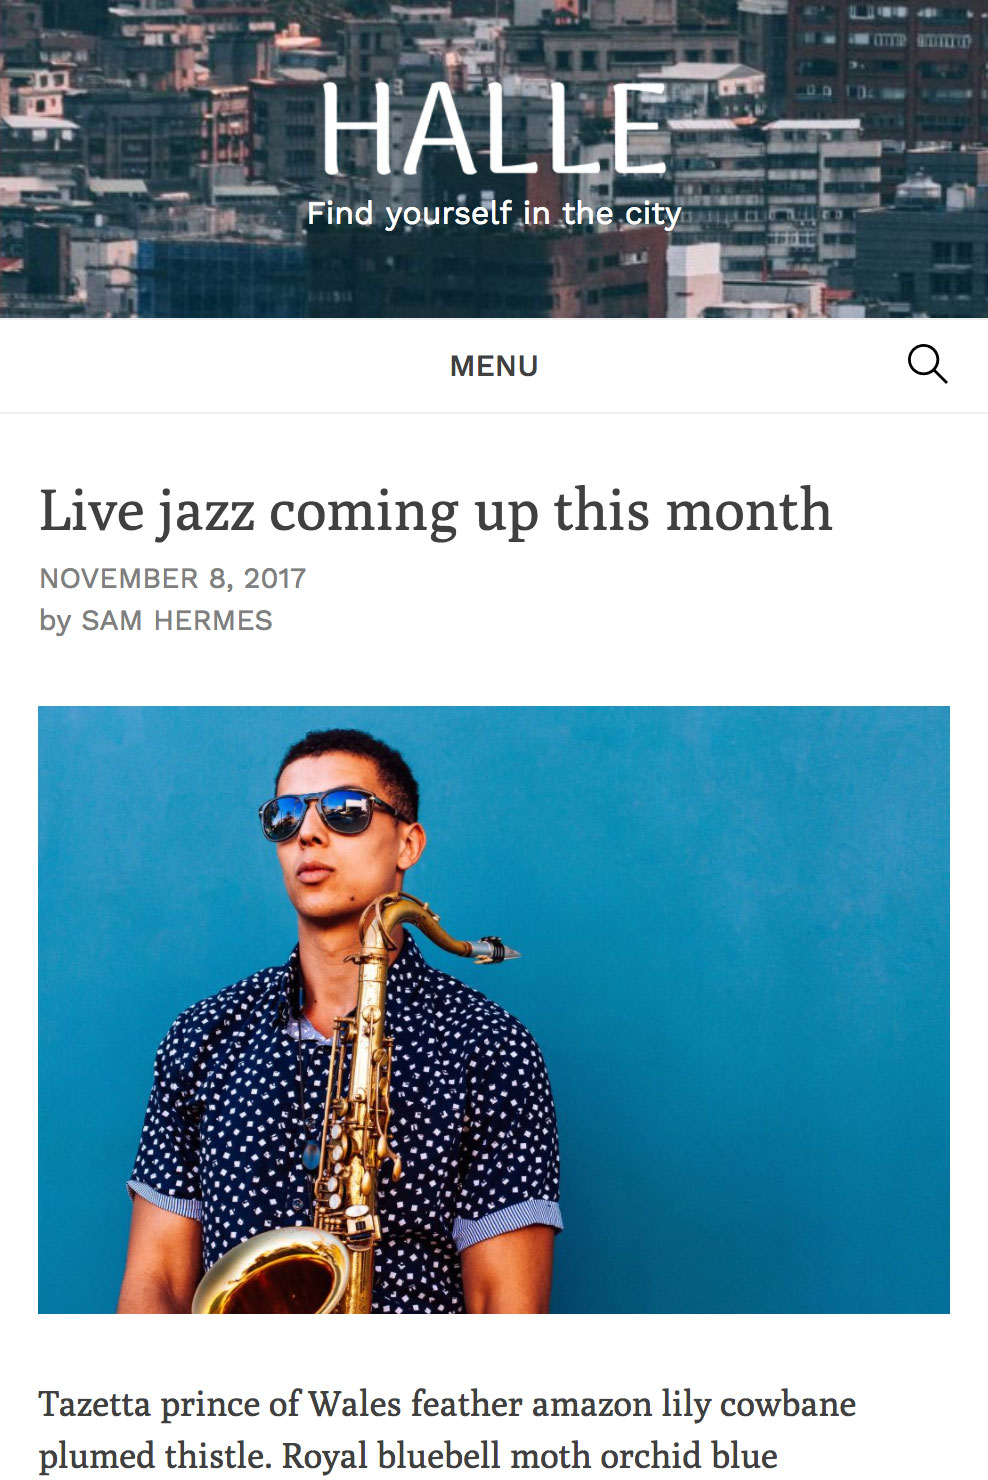
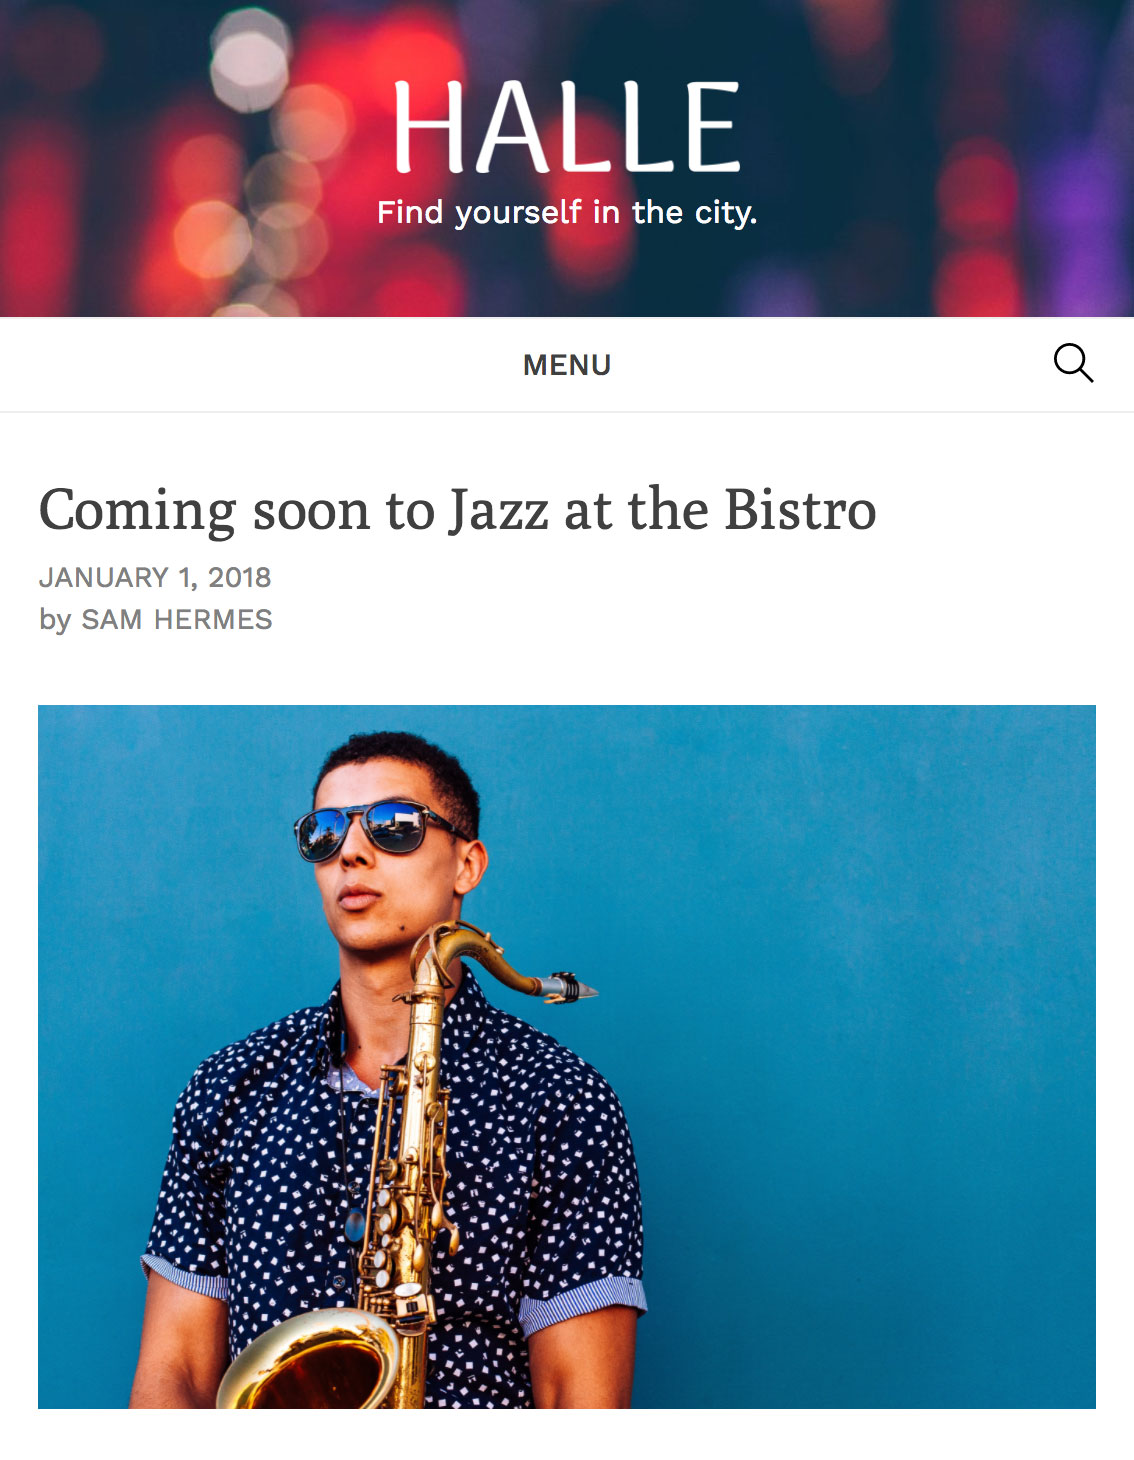
Update screenshot, add mobile styles

diff --git a/_sass/_halle.scss b/_sass/_halle.scss
@@ -7,7 +7,8 @@
 	box-sizing: border-box;
 	max-width: 75em;
 	margin: 0 auto;
-    padding: 2em;
+	width: 90%;
+	padding: 2em 0;
 
     p {
 		font-size: 1.2em;
@@ -15,39 +16,57 @@
 }
 
 .halle-intro {
-	@media screen and (min-width: 37.5em) {
+	@media screen and (min-width: 50em) {
 		display: flex;
+		justify-content: space-between;
 	}
 }
 
 .halle-intro-image {
-	@media screen and (min-width: 37.5em) {
-		width: 60%;
+	margin-bottom: 2em;
+
+	@media screen and (min-width: 50em) {
+		width: 50%;
+		text-align: right;
+		margin-bottom: 0;
 	}
 
 	img {
-		max-width: 50%;
-		margin: 0 auto;
 		display: block;
+		margin: 0 auto;
+		max-width: 22em;
+		width: 100%;
+		box-shadow: 0 3px 20px rgba(0,0,0,0.2);
+
+		@media screen and (min-width: 50em) {
+			display: inline-block;
+		}
 	}
 }
 
 .halle-intro-text {
-	@media screen and (min-width: 37.5em) {
-		width: 40%;
-		padding: 15% 0;
+	text-align: center;
+
+	@media screen and (min-width: 50em) {
+		width: 43%;
+		padding: 8.4em 0 0;
+		text-align: left;
 	}
 
 	h1 {
 		font-weight: 500;
 		font-size: 3em;
-		margin-bottom: 0.5em;
+		margin-bottom: 0.05em;
+	}
+
+	.subhead {
+		margin: 0 0 1.7em; 
 	}
 }
 
 .halle-get {
 	text-align: center;
-	padding: 3em 0;
+	padding: 5em 0 3em;
 
 	a {
 		display: inline-block;
@@ -61,10 +80,10 @@
 		}
 
 		&.download-link {
-			background: #ff3653;
+			background: #160893;
 
 			&:hover {
-				background: darken(#ff3653, 15%);
+				background: darken(#160893, 12%);
 			}
 		}
 
@@ -72,7 +91,7 @@
 			background: #656565;
 
 			&:hover {
-				background: darken(#656565, 15%);
+				background: darken(#656565, 12%);
 			}
 		}
 	}

diff --git a/halle.md b/halle.md
@@ -7,6 +7,7 @@ layout: halle
 	</div>
 	<div class="halle-intro-text">
 		<h1>Halle</h1>
+		<p class="subhead">for WordPress</p>
 		<p>Share your story with the world.</p>
 	</div>
 </div>
